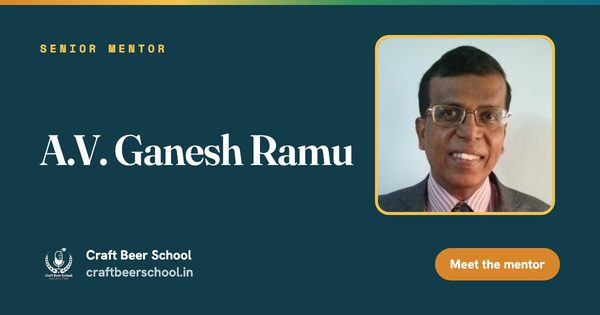
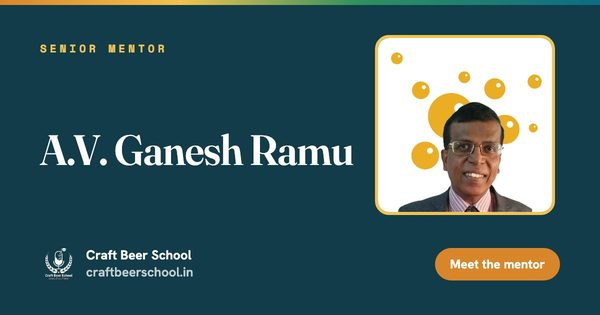
fix: Ganesh's card portrait in the same cut-out style as the other mentors

Changed region(s): [[0.63, 0.1143, 0.93, 0.6857]]

diff --git a/mr/mentor-anu-rao.html b/mr/mentor-anu-rao.html
@@ -84,7 +84,7 @@
 <div class="wrap">
 <div class="sec-head"><span class="eyebrow">तुमचे मेंटर</span><h2>बाकीच्या टीमला भेटा.</h2></div>
 <div class="grid-3">
-<article class="card mentor-card reveal"><a aria-hidden="true" href="../mentor-ganesh-ramu.html" tabindex="-1"><img alt="A.V. Ganesh Ramu" class="mentor-img" loading="lazy" src="../assets/ganesh-ramu.jpg"/></a><div class="card-body"><span class="cat">Senior Mentor · Master Brewer</span><h3><a href="../mentor-ganesh-ramu.html">A.V. Ganesh Ramu</a></h3><p>आमचे सर्वात ज्येष्ठ मेंटॉर. Institute of Brewing and Distilling चे Master Brewer, ज्यांना जर्मनी, यूके, न्यूझीलंड, सिंगापूर आणि भारतात ब्रूइंगचा 38 वर्षांचा अनुभव आहे.</p><div style="display:flex;flex-wrap:wrap;gap:.4rem 1.4rem"><a class="link-arrow" href="../mentor-ganesh-ramu.html">पूर्ण प्रोफाइल</a></div></div></article>
+<article class="card mentor-card reveal"><a aria-hidden="true" href="../mentor-ganesh-ramu.html" tabindex="-1"><img alt="A.V. Ganesh Ramu" class="mentor-img" loading="lazy" src="../assets/ganesh-ramu-portrait.jpg"/></a><div class="card-body"><span class="cat">Senior Mentor · Master Brewer</span><h3><a href="../mentor-ganesh-ramu.html">A.V. Ganesh Ramu</a></h3><p>आमचे सर्वात ज्येष्ठ मेंटॉर. Institute of Brewing and Distilling चे Master Brewer, ज्यांना जर्मनी, यूके, न्यूझीलंड, सिंगापूर आणि भारतात ब्रूइंगचा 38 वर्षांचा अनुभव आहे.</p><div style="display:flex;flex-wrap:wrap;gap:.4rem 1.4rem"><a class="link-arrow" href="../mentor-ganesh-ramu.html">पूर्ण प्रोफाइल</a></div></div></article>
 <article class="card mentor-card reveal"><a aria-hidden="true" href="mentor-ankur-napa.html" tabindex="-1"><img alt="Ankur Napa" class="mentor-img" loading="lazy" src="../assets/team3.jpg"/></a><div class="card-body"><span class="cat">Course Instructor · Master Brewer</span><h3><a href="mentor-ankur-napa.html">Ankur Napa</a></h3><p>United Breweries, SABMiller आणि AB InBev मध्ये R&amp;D मध्ये काम केलेले मास्टर ब्रुअर, ज्यांनी पुढे डेटा सायंटिस्ट म्हणून AB InBev च्या जागतिक बिझनेस युनिट्ससाठी AI आणि GenAI उभं केलं.</p><div style="display:flex;flex-wrap:wrap;gap:.4rem 1.4rem"><a class="link-arrow" href="mentor-ankur-napa.html">पूर्ण प्रोफाइल</a><a class="link-arrow" href="https://www.linkedin.com/in/ankur-napa/" rel="noopener" target="_blank">LinkedIn वर Ankur</a></div></div></article>
 <article class="card mentor-card reveal"><a aria-hidden="true" href="mentor-chatty-girija.html" tabindex="-1"><img alt="Chatty Girija" class="mentor-img" loading="lazy" src="../assets/team5.jpg"/></a><div class="card-body"><span class="cat">Beer Podcaster · Creative Strategist</span><h3><a href="mentor-chatty-girija.html">Chatty Girija</a></h3><p>जाहिरात क्षेत्रात 30+ वर्षं आणि क्राफ्ट बिअरची मनापासून आवड. प्रत्येक सेशनमध्ये बिअरच्या गोष्टी, ब्रँडिंग आणि व्यवसाय घेऊन येतात.</p><div style="display:flex;flex-wrap:wrap;gap:.4rem 1.4rem"><a class="link-arrow" href="mentor-chatty-girija.html">पूर्ण प्रोफाइल</a></div></div></article>
 <article class="card mentor-card reveal"><a aria-hidden="true" href="mentor-rahul-baliyan.html" tabindex="-1"><img alt="Rahul Baliyan" class="mentor-img" loading="lazy" src="../assets/rahul-baliyan-portrait.jpg"/></a><div class="card-body"><span class="cat">ब्रूइंग सायन्स इन्स्ट्रक्टर · दिल्ली आणि उत्तर भारत</span><h3><a href="mentor-rahul-baliyan.html">Rahul Baliyan</a></h3><p>Weihenstephan, TU Munich इथे प्रशिक्षण घेतलेले जर्मन-शैलीचे ब्रूमास्टर, फूड बायोटेक्नॉलॉजीमध्ये M.Tech. JW Marriott Chandigarh आणि भारतातील पहिली जर्मन ब्रुअरी Rockmann Beer Island साठी दहा वर्षं कन्सल्टंट ब्रूमास्टर, स्टार्ट-अप आणि एक्साइजपासून यील्ड आणि सोर्सिंगपर्यंत.</p><div style="display:flex;flex-wrap:wrap;gap:.4rem 1.4rem"><a class="link-arrow" href="mentor-rahul-baliyan.html">पूर्ण प्रोफाइल</a><a class="link-arrow" href="https://www.linkedin.com/in/rahul-baliyan-m-tech-40630a6b/" rel="noopener" target="_blank">LinkedIn वर Rahul</a></div></div></article>

diff --git a/mr/mentor-chatty-girija.html b/mr/mentor-chatty-girija.html
@@ -85,7 +85,7 @@
 <div class="wrap">
 <div class="sec-head"><span class="eyebrow">तुमचे मेंटर</span><h2>बाकीच्या टीमला भेटा.</h2></div>
 <div class="grid-3">
-<article class="card mentor-card reveal"><a aria-hidden="true" href="../mentor-ganesh-ramu.html" tabindex="-1"><img alt="A.V. Ganesh Ramu" class="mentor-img" loading="lazy" src="../assets/ganesh-ramu.jpg"/></a><div class="card-body"><span class="cat">Senior Mentor · Master Brewer</span><h3><a href="../mentor-ganesh-ramu.html">A.V. Ganesh Ramu</a></h3><p>आमचे सर्वात ज्येष्ठ मेंटॉर. Institute of Brewing and Distilling चे Master Brewer, ज्यांना जर्मनी, यूके, न्यूझीलंड, सिंगापूर आणि भारतात ब्रूइंगचा 38 वर्षांचा अनुभव आहे.</p><div style="display:flex;flex-wrap:wrap;gap:.4rem 1.4rem"><a class="link-arrow" href="../mentor-ganesh-ramu.html">पूर्ण प्रोफाइल</a></div></div></article>
+<article class="card mentor-card reveal"><a aria-hidden="true" href="../mentor-ganesh-ramu.html" tabindex="-1"><img alt="A.V. Ganesh Ramu" class="mentor-img" loading="lazy" src="../assets/ganesh-ramu-portrait.jpg"/></a><div class="card-body"><span class="cat">Senior Mentor · Master Brewer</span><h3><a href="../mentor-ganesh-ramu.html">A.V. Ganesh Ramu</a></h3><p>आमचे सर्वात ज्येष्ठ मेंटॉर. Institute of Brewing and Distilling चे Master Brewer, ज्यांना जर्मनी, यूके, न्यूझीलंड, सिंगापूर आणि भारतात ब्रूइंगचा 38 वर्षांचा अनुभव आहे.</p><div style="display:flex;flex-wrap:wrap;gap:.4rem 1.4rem"><a class="link-arrow" href="../mentor-ganesh-ramu.html">पूर्ण प्रोफाइल</a></div></div></article>
 <article class="card mentor-card reveal"><a aria-hidden="true" href="mentor-ankur-napa.html" tabindex="-1"><img alt="Ankur Napa" class="mentor-img" loading="lazy" src="../assets/team3.jpg"/></a><div class="card-body"><span class="cat">Course Instructor · Master Brewer</span><h3><a href="mentor-ankur-napa.html">Ankur Napa</a></h3><p>United Breweries, SABMiller आणि AB InBev मध्ये R&amp;D मध्ये काम केलेले मास्टर ब्रुअर, ज्यांनी पुढे डेटा सायंटिस्ट म्हणून AB InBev च्या जागतिक बिझनेस युनिट्ससाठी AI आणि GenAI उभं केलं.</p><div style="display:flex;flex-wrap:wrap;gap:.4rem 1.4rem"><a class="link-arrow" href="mentor-ankur-napa.html">पूर्ण प्रोफाइल</a><a class="link-arrow" href="https://www.linkedin.com/in/ankur-napa/" rel="noopener" target="_blank">LinkedIn वर Ankur</a></div></div></article>
 <article class="card mentor-card reveal"><a aria-hidden="true" href="mentor-anu-rao.html" tabindex="-1"><img alt="Anu Rao" class="mentor-img" loading="lazy" src="../assets/team4.jpg"/></a><div class="card-body"><span class="cat">स्ट्रॅटेजी आणि ऑपरेशन्स प्रमुख</span><h3><a href="mentor-anu-rao.html">Anu Rao</a></h3><p>सामाजिक जबाबदारी, शिक्षण आणि ऑपरेशन्समध्ये 15+ वर्षं, प्रत्येक बॅच धान्यापासून ग्लासपर्यंत सुरळीत चालेल याची काळजी घेतात.</p><div style="display:flex;flex-wrap:wrap;gap:.4rem 1.4rem"><a class="link-arrow" href="mentor-anu-rao.html">पूर्ण प्रोफाइल</a></div></div></article>
 <article class="card mentor-card reveal"><a aria-hidden="true" href="mentor-rahul-baliyan.html" tabindex="-1"><img alt="Rahul Baliyan" class="mentor-img" loading="lazy" src="../assets/rahul-baliyan-portrait.jpg"/></a><div class="card-body"><span class="cat">ब्रूइंग सायन्स इन्स्ट्रक्टर · दिल्ली आणि उत्तर भारत</span><h3><a href="mentor-rahul-baliyan.html">Rahul Baliyan</a></h3><p>Weihenstephan, TU Munich इथे प्रशिक्षण घेतलेले जर्मन-शैलीचे ब्रूमास्टर, फूड बायोटेक्नॉलॉजीमध्ये M.Tech. JW Marriott Chandigarh आणि भारतातील पहिली जर्मन ब्रुअरी Rockmann Beer Island साठी दहा वर्षं कन्सल्टंट ब्रूमास्टर, स्टार्ट-अप आणि एक्साइजपासून यील्ड आणि सोर्सिंगपर्यंत.</p><div style="display:flex;flex-wrap:wrap;gap:.4rem 1.4rem"><a class="link-arrow" href="mentor-rahul-baliyan.html">पूर्ण प्रोफाइल</a><a class="link-arrow" href="https://www.linkedin.com/in/rahul-baliyan-m-tech-40630a6b/" rel="noopener" target="_blank">LinkedIn वर Rahul</a></div></div></article>

diff --git a/kn/mentor-anu-rao.html b/kn/mentor-anu-rao.html
@@ -84,7 +84,7 @@
 <div class="wrap">
 <div class="sec-head"><span class="eyebrow">ನಿಮ್ಮ ಮೆಂಟರ್ಗಳು</span><h2>ತಂಡದ ಉಳಿದವರನ್ನು ಭೇಟಿಯಾಗಿ.</h2></div>
 <div class="grid-3">
-<article class="card mentor-card reveal"><a aria-hidden="true" href="../mentor-ganesh-ramu.html" tabindex="-1"><img alt="A.V. Ganesh Ramu" class="mentor-img" loading="lazy" src="../assets/ganesh-ramu.jpg"/></a><div class="card-body"><span class="cat">Senior Mentor · Master Brewer</span><h3><a href="../mentor-ganesh-ramu.html">A.V. Ganesh Ramu</a></h3><p>ನಮ್ಮ ಅತ್ಯಂತ ಹಿರಿಯ ಮೆಂಟರ್. Institute of Brewing and Distilling ನಿಂದ Master Brewer, ಜರ್ಮನಿ, ಯುಕೆ, ನ್ಯೂಜಿಲೆಂಡ್, ಸಿಂಗಾಪುರ ಮತ್ತು ಭಾರತದಲ್ಲಿ ಬ್ರೂಯಿಂಗ್ನಲ್ಲಿ 38 ವರ್ಷಗಳ ಅನುಭವ.</p><div style="display:flex;flex-wrap:wrap;gap:.4rem 1.4rem"><a class="link-arrow" href="../mentor-ganesh-ramu.html">ಪೂರ್ಣ ಪ್ರೊಫೈಲ್</a></div></div></article>
+<article class="card mentor-card reveal"><a aria-hidden="true" href="../mentor-ganesh-ramu.html" tabindex="-1"><img alt="A.V. Ganesh Ramu" class="mentor-img" loading="lazy" src="../assets/ganesh-ramu-portrait.jpg"/></a><div class="card-body"><span class="cat">Senior Mentor · Master Brewer</span><h3><a href="../mentor-ganesh-ramu.html">A.V. Ganesh Ramu</a></h3><p>ನಮ್ಮ ಅತ್ಯಂತ ಹಿರಿಯ ಮೆಂಟರ್. Institute of Brewing and Distilling ನಿಂದ Master Brewer, ಜರ್ಮನಿ, ಯುಕೆ, ನ್ಯೂಜಿಲೆಂಡ್, ಸಿಂಗಾಪುರ ಮತ್ತು ಭಾರತದಲ್ಲಿ ಬ್ರೂಯಿಂಗ್ನಲ್ಲಿ 38 ವರ್ಷಗಳ ಅನುಭವ.</p><div style="display:flex;flex-wrap:wrap;gap:.4rem 1.4rem"><a class="link-arrow" href="../mentor-ganesh-ramu.html">ಪೂರ್ಣ ಪ್ರೊಫೈಲ್</a></div></div></article>
 <article class="card mentor-card reveal"><a aria-hidden="true" href="mentor-ankur-napa.html" tabindex="-1"><img alt="Ankur Napa" class="mentor-img" loading="lazy" src="../assets/team3.jpg"/></a><div class="card-body"><span class="cat">ಕೋರ್ಸ್ ಬೋಧಕ · Master Brewer</span><h3><a href="mentor-ankur-napa.html">Ankur Napa</a></h3><p>United Breweries, SABMiller ಮತ್ತು AB InBev ನ R&amp;D ಯಲ್ಲಿ ಕೆಲಸ ಮಾಡಿದ Master Brewer, ನಂತರ ಡೇಟಾ ಸೈಂಟಿಸ್ಟ್ ಆಗಿ AB InBev ನ ಜಾಗತಿಕ ವ್ಯವಹಾರ ಘಟಕಗಳಿಗಾಗಿ AI ಮತ್ತು GenAI ಕಟ್ಟಿದವರು.</p><div style="display:flex;flex-wrap:wrap;gap:.4rem 1.4rem"><a class="link-arrow" href="mentor-ankur-napa.html">ಪೂರ್ಣ ಪ್ರೊಫೈಲ್</a><a class="link-arrow" href="https://www.linkedin.com/in/ankur-napa/" rel="noopener" target="_blank">LinkedIn ನಲ್ಲಿ Ankur</a></div></div></article>
 <article class="card mentor-card reveal"><a aria-hidden="true" href="mentor-chatty-girija.html" tabindex="-1"><img alt="Chatty Girija" class="mentor-img" loading="lazy" src="../assets/team5.jpg"/></a><div class="card-body"><span class="cat">ಬಿಯರ್ podcaster · ಸೃಜನಾತ್ಮಕ ತಂತ್ರಜ್ಞೆ</span><h3><a href="mentor-chatty-girija.html">Chatty Girija</a></h3><p>ಜಾಹೀರಾತು ಕ್ಷೇತ್ರದಲ್ಲಿ 30+ ವರ್ಷಗಳು ಮತ್ತು ಕ್ರಾಫ್ಟ್ ಬಿಯರ್ ಬಗ್ಗೆ ಆಳವಾದ ಒಲವು. ಪ್ರತಿ ಸೆಷನ್ಗೂ ಬಿಯರ್ನ ಕಥೆಗಳು, ಬ್ರ್ಯಾಂಡಿಂಗ್ ಮತ್ತು ವ್ಯವಹಾರವನ್ನು ತರುತ್ತಾರೆ.</p><div style="display:flex;flex-wrap:wrap;gap:.4rem 1.4rem"><a class="link-arrow" href="mentor-chatty-girija.html">ಪೂರ್ಣ ಪ್ರೊಫೈಲ್</a></div></div></article>
 <article class="card mentor-card reveal"><a aria-hidden="true" href="mentor-rahul-baliyan.html" tabindex="-1"><img alt="Rahul Baliyan" class="mentor-img" loading="lazy" src="../assets/rahul-baliyan-portrait.jpg"/></a><div class="card-body"><span class="cat">Brewing Science ಬೋಧಕರು · ದೆಹಲಿ &amp; ಉತ್ತರ ಭಾರತ</span><h3><a href="mentor-rahul-baliyan.html">Rahul Baliyan</a></h3><p>TU Munich ನ Weihenstephan ನಲ್ಲಿ ತರಬೇತಿ ಪಡೆದ ಜರ್ಮನ್ ಶೈಲಿಯ Brewmaster, ಆಹಾರ ಜೈವಿಕ ತಂತ್ರಜ್ಞಾನದಲ್ಲಿ M.Tech. ಪದವಿ. JW Marriott Chandigarh ಮತ್ತು ಭಾರತದ ಮೊದಲ ಜರ್ಮನ್ ಬ್ರೂವರಿ Rockmann Beer Island ಗೆ Consultant Brew Master ಆಗಿ ಒಂದು ದಶಕ, ಆರಂಭ ಮತ್ತು ಅಬಕಾರಿಯಿಂದ ಇಳುವರಿ ಮತ್ತು ಖರೀದಿಯವರೆಗೆ.</p><div style="display:flex;flex-wrap:wrap;gap:.4rem 1.4rem"><a class="link-arrow" href="mentor-rahul-baliyan.html">ಪೂರ್ಣ ಪ್ರೊಫೈಲ್</a><a class="link-arrow" href="https://www.linkedin.com/in/rahul-baliyan-m-tech-40630a6b/" rel="noopener" target="_blank">LinkedIn ನಲ್ಲಿ Rahul</a></div></div></article>

diff --git a/te/mentor-anu-rao.html b/te/mentor-anu-rao.html
@@ -84,7 +84,7 @@
 <div class="wrap">
 <div class="sec-head"><span class="eyebrow">మీ మెంటర్లు</span><h2>మిగతా టీమ్ను కలవండి.</h2></div>
 <div class="grid-3">
-<article class="card mentor-card reveal"><a aria-hidden="true" href="../mentor-ganesh-ramu.html" tabindex="-1"><img alt="A.V. Ganesh Ramu" class="mentor-img" loading="lazy" src="../assets/ganesh-ramu.jpg"/></a><div class="card-body"><span class="cat">Senior Mentor · Master Brewer</span><h3><a href="../mentor-ganesh-ramu.html">A.V. Ganesh Ramu</a></h3><p>మా అత్యంత సీనియర్ మెంటార్. Institute of Brewing and Distilling నుంచి Master Brewer, జర్మనీ, యూకే, న్యూజిలాండ్, సింగపూర్, భారతదేశాల్లో బ్రూయింగ్లో 38 ఏళ్ళ అనుభవం ఉంది.</p><div style="display:flex;flex-wrap:wrap;gap:.4rem 1.4rem"><a class="link-arrow" href="../mentor-ganesh-ramu.html">పూర్తి ప్రొఫైల్</a></div></div></article>
+<article class="card mentor-card reveal"><a aria-hidden="true" href="../mentor-ganesh-ramu.html" tabindex="-1"><img alt="A.V. Ganesh Ramu" class="mentor-img" loading="lazy" src="../assets/ganesh-ramu-portrait.jpg"/></a><div class="card-body"><span class="cat">Senior Mentor · Master Brewer</span><h3><a href="../mentor-ganesh-ramu.html">A.V. Ganesh Ramu</a></h3><p>మా అత్యంత సీనియర్ మెంటార్. Institute of Brewing and Distilling నుంచి Master Brewer, జర్మనీ, యూకే, న్యూజిలాండ్, సింగపూర్, భారతదేశాల్లో బ్రూయింగ్లో 38 ఏళ్ళ అనుభవం ఉంది.</p><div style="display:flex;flex-wrap:wrap;gap:.4rem 1.4rem"><a class="link-arrow" href="../mentor-ganesh-ramu.html">పూర్తి ప్రొఫైల్</a></div></div></article>
 <article class="card mentor-card reveal"><a aria-hidden="true" href="mentor-ankur-napa.html" tabindex="-1"><img alt="Ankur Napa" class="mentor-img" loading="lazy" src="../assets/team3.jpg"/></a><div class="card-body"><span class="cat">కోర్సు ఇన్స్ట్రక్టర్ · Master Brewer</span><h3><a href="mentor-ankur-napa.html">Ankur Napa</a></h3><p>United Breweries, SABMiller, AB InBev లలో R&amp;D విభాగంలో పనిచేసిన Master Brewer. ఆ తర్వాత డేటా సైంటిస్ట్గా AB InBev గ్లోబల్ బిజినెస్ యూనిట్ల కోసం AI, GenAI నిర్మించారు.</p><div style="display:flex;flex-wrap:wrap;gap:.4rem 1.4rem"><a class="link-arrow" href="mentor-ankur-napa.html">పూర్తి ప్రొఫైల్</a><a class="link-arrow" href="https://www.linkedin.com/in/ankur-napa/" rel="noopener" target="_blank">LinkedIn లో Ankur</a></div></div></article>
 <article class="card mentor-card reveal"><a aria-hidden="true" href="mentor-chatty-girija.html" tabindex="-1"><img alt="Chatty Girija" class="mentor-img" loading="lazy" src="../assets/team5.jpg"/></a><div class="card-body"><span class="cat">బీర్ పాడ్కాస్టర్ · క్రియేటివ్ స్ట్రాటజిస్ట్</span><h3><a href="mentor-chatty-girija.html">Chatty Girija</a></h3><p>అడ్వర్టైజింగ్లో 30+ ఏళ్ళు, క్రాఫ్ట్ బీర్ అంటే ఎంతో ఇష్టం. ప్రతి సెషన్కూ బీర్ కథలు, బ్రాండింగ్, వ్యాపారం తీసుకొస్తారు.</p><div style="display:flex;flex-wrap:wrap;gap:.4rem 1.4rem"><a class="link-arrow" href="mentor-chatty-girija.html">పూర్తి ప్రొఫైల్</a></div></div></article>
 <article class="card mentor-card reveal"><a aria-hidden="true" href="mentor-rahul-baliyan.html" tabindex="-1"><img alt="Rahul Baliyan" class="mentor-img" loading="lazy" src="../assets/rahul-baliyan-portrait.jpg"/></a><div class="card-body"><span class="cat">Brewing Science బోధకులు · ఢిల్లీ &amp; ఉత్తర భారతదేశం</span><h3><a href="mentor-rahul-baliyan.html">Rahul Baliyan</a></h3><p>Weihenstephan, TU Munichలో శిక్షణ పొందిన జర్మన్ స్టైల్ Brewmaster, Food Biotechnologyలో M.Tech. JW Marriott Chandigarh, భారతదేశపు మొదటి జర్మన్ బ్రూవరీ అయిన Rockmann Beer Island కోసం పదేళ్ళ పాటు Consultant Brew Master గా పనిచేశారు, స్టార్టప్, ఎక్సైజ్ నుంచి yield, సోర్సింగ్ వరకు.</p><div style="display:flex;flex-wrap:wrap;gap:.4rem 1.4rem"><a class="link-arrow" href="mentor-rahul-baliyan.html">పూర్తి ప్రొఫైల్</a><a class="link-arrow" href="https://www.linkedin.com/in/rahul-baliyan-m-tech-40630a6b/" rel="noopener" target="_blank">LinkedIn లో Rahul</a></div></div></article>

diff --git a/kn/mentor-chatty-girija.html b/kn/mentor-chatty-girija.html
@@ -85,7 +85,7 @@
 <div class="wrap">
 <div class="sec-head"><span class="eyebrow">ನಿಮ್ಮ ಮೆಂಟರ್ಗಳು</span><h2>ತಂಡದ ಉಳಿದವರನ್ನು ಭೇಟಿಯಾಗಿ.</h2></div>
 <div class="grid-3">
-<article class="card mentor-card reveal"><a aria-hidden="true" href="../mentor-ganesh-ramu.html" tabindex="-1"><img alt="A.V. Ganesh Ramu" class="mentor-img" loading="lazy" src="../assets/ganesh-ramu.jpg"/></a><div class="card-body"><span class="cat">Senior Mentor · Master Brewer</span><h3><a href="../mentor-ganesh-ramu.html">A.V. Ganesh Ramu</a></h3><p>ನಮ್ಮ ಅತ್ಯಂತ ಹಿರಿಯ ಮೆಂಟರ್. Institute of Brewing and Distilling ನಿಂದ Master Brewer, ಜರ್ಮನಿ, ಯುಕೆ, ನ್ಯೂಜಿಲೆಂಡ್, ಸಿಂಗಾಪುರ ಮತ್ತು ಭಾರತದಲ್ಲಿ ಬ್ರೂಯಿಂಗ್ನಲ್ಲಿ 38 ವರ್ಷಗಳ ಅನುಭವ.</p><div style="display:flex;flex-wrap:wrap;gap:.4rem 1.4rem"><a class="link-arrow" href="../mentor-ganesh-ramu.html">ಪೂರ್ಣ ಪ್ರೊಫೈಲ್</a></div></div></article>
+<article class="card mentor-card reveal"><a aria-hidden="true" href="../mentor-ganesh-ramu.html" tabindex="-1"><img alt="A.V. Ganesh Ramu" class="mentor-img" loading="lazy" src="../assets/ganesh-ramu-portrait.jpg"/></a><div class="card-body"><span class="cat">Senior Mentor · Master Brewer</span><h3><a href="../mentor-ganesh-ramu.html">A.V. Ganesh Ramu</a></h3><p>ನಮ್ಮ ಅತ್ಯಂತ ಹಿರಿಯ ಮೆಂಟರ್. Institute of Brewing and Distilling ನಿಂದ Master Brewer, ಜರ್ಮನಿ, ಯುಕೆ, ನ್ಯೂಜಿಲೆಂಡ್, ಸಿಂಗಾಪುರ ಮತ್ತು ಭಾರತದಲ್ಲಿ ಬ್ರೂಯಿಂಗ್ನಲ್ಲಿ 38 ವರ್ಷಗಳ ಅನುಭವ.</p><div style="display:flex;flex-wrap:wrap;gap:.4rem 1.4rem"><a class="link-arrow" href="../mentor-ganesh-ramu.html">ಪೂರ್ಣ ಪ್ರೊಫೈಲ್</a></div></div></article>
 <article class="card mentor-card reveal"><a aria-hidden="true" href="mentor-ankur-napa.html" tabindex="-1"><img alt="Ankur Napa" class="mentor-img" loading="lazy" src="../assets/team3.jpg"/></a><div class="card-body"><span class="cat">ಕೋರ್ಸ್ ಬೋಧಕ · Master Brewer</span><h3><a href="mentor-ankur-napa.html">Ankur Napa</a></h3><p>United Breweries, SABMiller ಮತ್ತು AB InBev ನ R&amp;D ಯಲ್ಲಿ ಕೆಲಸ ಮಾಡಿದ Master Brewer, ನಂತರ ಡೇಟಾ ಸೈಂಟಿಸ್ಟ್ ಆಗಿ AB InBev ನ ಜಾಗತಿಕ ವ್ಯವಹಾರ ಘಟಕಗಳಿಗಾಗಿ AI ಮತ್ತು GenAI ಕಟ್ಟಿದವರು.</p><div style="display:flex;flex-wrap:wrap;gap:.4rem 1.4rem"><a class="link-arrow" href="mentor-ankur-napa.html">ಪೂರ್ಣ ಪ್ರೊಫೈಲ್</a><a class="link-arrow" href="https://www.linkedin.com/in/ankur-napa/" rel="noopener" target="_blank">LinkedIn ನಲ್ಲಿ Ankur</a></div></div></article>
 <article class="card mentor-card reveal"><a aria-hidden="true" href="mentor-anu-rao.html" tabindex="-1"><img alt="Anu Rao" class="mentor-img" loading="lazy" src="../assets/team4.jpg"/></a><div class="card-body"><span class="cat">ಮುಖ್ಯಸ್ಥರು, ಸ್ಟ್ರಾಟಜಿ &amp; ಆಪರೇಷನ್ಸ್</span><h3><a href="mentor-anu-rao.html">Anu Rao</a></h3><p>ಸಾಮಾಜಿಕ ಜವಾಬ್ದಾರಿ, ಶಿಕ್ಷಣ ಮತ್ತು ಕಾರ್ಯಾಚರಣೆಯಲ್ಲಿ 15+ ವರ್ಷಗಳು, ಪ್ರತಿ ಬ್ಯಾಚ್ ಅನ್ನು ಧಾನ್ಯದಿಂದ ಗ್ಲಾಸ್ವರೆಗೆ ಸುಗಮವಾಗಿ ನಡೆಸುತ್ತಾರೆ.</p><div style="display:flex;flex-wrap:wrap;gap:.4rem 1.4rem"><a class="link-arrow" href="mentor-anu-rao.html">ಪೂರ್ಣ ಪ್ರೊಫೈಲ್</a></div></div></article>
 <article class="card mentor-card reveal"><a aria-hidden="true" href="mentor-rahul-baliyan.html" tabindex="-1"><img alt="Rahul Baliyan" class="mentor-img" loading="lazy" src="../assets/rahul-baliyan-portrait.jpg"/></a><div class="card-body"><span class="cat">Brewing Science ಬೋಧಕರು · ದೆಹಲಿ &amp; ಉತ್ತರ ಭಾರತ</span><h3><a href="mentor-rahul-baliyan.html">Rahul Baliyan</a></h3><p>TU Munich ನ Weihenstephan ನಲ್ಲಿ ತರಬೇತಿ ಪಡೆದ ಜರ್ಮನ್ ಶೈಲಿಯ Brewmaster, ಆಹಾರ ಜೈವಿಕ ತಂತ್ರಜ್ಞಾನದಲ್ಲಿ M.Tech. ಪದವಿ. JW Marriott Chandigarh ಮತ್ತು ಭಾರತದ ಮೊದಲ ಜರ್ಮನ್ ಬ್ರೂವರಿ Rockmann Beer Island ಗೆ Consultant Brew Master ಆಗಿ ಒಂದು ದಶಕ, ಆರಂಭ ಮತ್ತು ಅಬಕಾರಿಯಿಂದ ಇಳುವರಿ ಮತ್ತು ಖರೀದಿಯವರೆಗೆ.</p><div style="display:flex;flex-wrap:wrap;gap:.4rem 1.4rem"><a class="link-arrow" href="mentor-rahul-baliyan.html">ಪೂರ್ಣ ಪ್ರೊಫೈಲ್</a><a class="link-arrow" href="https://www.linkedin.com/in/rahul-baliyan-m-tech-40630a6b/" rel="noopener" target="_blank">LinkedIn ನಲ್ಲಿ Rahul</a></div></div></article>

diff --git a/te/mentor-chatty-girija.html b/te/mentor-chatty-girija.html
@@ -85,7 +85,7 @@
 <div class="wrap">
 <div class="sec-head"><span class="eyebrow">మీ మెంటర్లు</span><h2>మిగతా టీమ్ను కలవండి.</h2></div>
 <div class="grid-3">
-<article class="card mentor-card reveal"><a aria-hidden="true" href="../mentor-ganesh-ramu.html" tabindex="-1"><img alt="A.V. Ganesh Ramu" class="mentor-img" loading="lazy" src="../assets/ganesh-ramu.jpg"/></a><div class="card-body"><span class="cat">Senior Mentor · Master Brewer</span><h3><a href="../mentor-ganesh-ramu.html">A.V. Ganesh Ramu</a></h3><p>మా అత్యంత సీనియర్ మెంటార్. Institute of Brewing and Distilling నుంచి Master Brewer, జర్మనీ, యూకే, న్యూజిలాండ్, సింగపూర్, భారతదేశాల్లో బ్రూయింగ్లో 38 ఏళ్ళ అనుభవం ఉంది.</p><div style="display:flex;flex-wrap:wrap;gap:.4rem 1.4rem"><a class="link-arrow" href="../mentor-ganesh-ramu.html">పూర్తి ప్రొఫైల్</a></div></div></article>
+<article class="card mentor-card reveal"><a aria-hidden="true" href="../mentor-ganesh-ramu.html" tabindex="-1"><img alt="A.V. Ganesh Ramu" class="mentor-img" loading="lazy" src="../assets/ganesh-ramu-portrait.jpg"/></a><div class="card-body"><span class="cat">Senior Mentor · Master Brewer</span><h3><a href="../mentor-ganesh-ramu.html">A.V. Ganesh Ramu</a></h3><p>మా అత్యంత సీనియర్ మెంటార్. Institute of Brewing and Distilling నుంచి Master Brewer, జర్మనీ, యూకే, న్యూజిలాండ్, సింగపూర్, భారతదేశాల్లో బ్రూయింగ్లో 38 ఏళ్ళ అనుభవం ఉంది.</p><div style="display:flex;flex-wrap:wrap;gap:.4rem 1.4rem"><a class="link-arrow" href="../mentor-ganesh-ramu.html">పూర్తి ప్రొఫైల్</a></div></div></article>
 <article class="card mentor-card reveal"><a aria-hidden="true" href="mentor-ankur-napa.html" tabindex="-1"><img alt="Ankur Napa" class="mentor-img" loading="lazy" src="../assets/team3.jpg"/></a><div class="card-body"><span class="cat">కోర్సు ఇన్స్ట్రక్టర్ · Master Brewer</span><h3><a href="mentor-ankur-napa.html">Ankur Napa</a></h3><p>United Breweries, SABMiller, AB InBev లలో R&amp;D విభాగంలో పనిచేసిన Master Brewer. ఆ తర్వాత డేటా సైంటిస్ట్గా AB InBev గ్లోబల్ బిజినెస్ యూనిట్ల కోసం AI, GenAI నిర్మించారు.</p><div style="display:flex;flex-wrap:wrap;gap:.4rem 1.4rem"><a class="link-arrow" href="mentor-ankur-napa.html">పూర్తి ప్రొఫైల్</a><a class="link-arrow" href="https://www.linkedin.com/in/ankur-napa/" rel="noopener" target="_blank">LinkedIn లో Ankur</a></div></div></article>
 <article class="card mentor-card reveal"><a aria-hidden="true" href="mentor-anu-rao.html" tabindex="-1"><img alt="Anu Rao" class="mentor-img" loading="lazy" src="../assets/team4.jpg"/></a><div class="card-body"><span class="cat">హెడ్, స్ట్రాటజీ &amp; ఆపరేషన్స్</span><h3><a href="mentor-anu-rao.html">Anu Rao</a></h3><p>సామాజిక బాధ్యత, విద్య, ఆపరేషన్స్లో 15+ ఏళ్ళ అనుభవం. ధాన్యం నుంచి గ్లాస్ వరకు, ప్రతి బ్యాచ్ విద్యార్థులూ సాఫీగా సాగేలా చూసుకుంటారు.</p><div style="display:flex;flex-wrap:wrap;gap:.4rem 1.4rem"><a class="link-arrow" href="mentor-anu-rao.html">పూర్తి ప్రొఫైల్</a></div></div></article>
 <article class="card mentor-card reveal"><a aria-hidden="true" href="mentor-rahul-baliyan.html" tabindex="-1"><img alt="Rahul Baliyan" class="mentor-img" loading="lazy" src="../assets/rahul-baliyan-portrait.jpg"/></a><div class="card-body"><span class="cat">Brewing Science బోధకులు · ఢిల్లీ &amp; ఉత్తర భారతదేశం</span><h3><a href="mentor-rahul-baliyan.html">Rahul Baliyan</a></h3><p>Weihenstephan, TU Munichలో శిక్షణ పొందిన జర్మన్ స్టైల్ Brewmaster, Food Biotechnologyలో M.Tech. JW Marriott Chandigarh, భారతదేశపు మొదటి జర్మన్ బ్రూవరీ అయిన Rockmann Beer Island కోసం పదేళ్ళ పాటు Consultant Brew Master గా పనిచేశారు, స్టార్టప్, ఎక్సైజ్ నుంచి yield, సోర్సింగ్ వరకు.</p><div style="display:flex;flex-wrap:wrap;gap:.4rem 1.4rem"><a class="link-arrow" href="mentor-rahul-baliyan.html">పూర్తి ప్రొఫైల్</a><a class="link-arrow" href="https://www.linkedin.com/in/rahul-baliyan-m-tech-40630a6b/" rel="noopener" target="_blank">LinkedIn లో Rahul</a></div></div></article>

diff --git a/kn/mentor-ankur-napa.html b/kn/mentor-ankur-napa.html
@@ -87,7 +87,7 @@
 <div class="wrap">
 <div class="sec-head"><span class="eyebrow">ನಿಮ್ಮ ಮೆಂಟರ್ಗಳು</span><h2>ತಂಡದ ಉಳಿದವರನ್ನು ಭೇಟಿಯಾಗಿ.</h2></div>
 <div class="grid-3">
-<article class="card mentor-card reveal"><a aria-hidden="true" href="../mentor-ganesh-ramu.html" tabindex="-1"><img alt="A.V. Ganesh Ramu" class="mentor-img" loading="lazy" src="../assets/ganesh-ramu.jpg"/></a><div class="card-body"><span class="cat">Senior Mentor · Master Brewer</span><h3><a href="../mentor-ganesh-ramu.html">A.V. Ganesh Ramu</a></h3><p>ನಮ್ಮ ಅತ್ಯಂತ ಹಿರಿಯ ಮೆಂಟರ್. Institute of Brewing and Distilling ನಿಂದ Master Brewer, ಜರ್ಮನಿ, ಯುಕೆ, ನ್ಯೂಜಿಲೆಂಡ್, ಸಿಂಗಾಪುರ ಮತ್ತು ಭಾರತದಲ್ಲಿ ಬ್ರೂಯಿಂಗ್ನಲ್ಲಿ 38 ವರ್ಷಗಳ ಅನುಭವ.</p><div style="display:flex;flex-wrap:wrap;gap:.4rem 1.4rem"><a class="link-arrow" href="../mentor-ganesh-ramu.html">ಪೂರ್ಣ ಪ್ರೊಫೈಲ್</a></div></div></article>
+<article class="card mentor-card reveal"><a aria-hidden="true" href="../mentor-ganesh-ramu.html" tabindex="-1"><img alt="A.V. Ganesh Ramu" class="mentor-img" loading="lazy" src="../assets/ganesh-ramu-portrait.jpg"/></a><div class="card-body"><span class="cat">Senior Mentor · Master Brewer</span><h3><a href="../mentor-ganesh-ramu.html">A.V. Ganesh Ramu</a></h3><p>ನಮ್ಮ ಅತ್ಯಂತ ಹಿರಿಯ ಮೆಂಟರ್. Institute of Brewing and Distilling ನಿಂದ Master Brewer, ಜರ್ಮನಿ, ಯುಕೆ, ನ್ಯೂಜಿಲೆಂಡ್, ಸಿಂಗಾಪುರ ಮತ್ತು ಭಾರತದಲ್ಲಿ ಬ್ರೂಯಿಂಗ್ನಲ್ಲಿ 38 ವರ್ಷಗಳ ಅನುಭವ.</p><div style="display:flex;flex-wrap:wrap;gap:.4rem 1.4rem"><a class="link-arrow" href="../mentor-ganesh-ramu.html">ಪೂರ್ಣ ಪ್ರೊಫೈಲ್</a></div></div></article>
 <article class="card mentor-card reveal"><a aria-hidden="true" href="mentor-chatty-girija.html" tabindex="-1"><img alt="Chatty Girija" class="mentor-img" loading="lazy" src="../assets/team5.jpg"/></a><div class="card-body"><span class="cat">ಬಿಯರ್ podcaster · ಸೃಜನಾತ್ಮಕ ತಂತ್ರಜ್ಞೆ</span><h3><a href="mentor-chatty-girija.html">Chatty Girija</a></h3><p>ಜಾಹೀರಾತು ಕ್ಷೇತ್ರದಲ್ಲಿ 30+ ವರ್ಷಗಳು ಮತ್ತು ಕ್ರಾಫ್ಟ್ ಬಿಯರ್ ಬಗ್ಗೆ ಆಳವಾದ ಒಲವು. ಪ್ರತಿ ಸೆಷನ್ಗೂ ಬಿಯರ್ನ ಕಥೆಗಳು, ಬ್ರ್ಯಾಂಡಿಂಗ್ ಮತ್ತು ವ್ಯವಹಾರವನ್ನು ತರುತ್ತಾರೆ.</p><div style="display:flex;flex-wrap:wrap;gap:.4rem 1.4rem"><a class="link-arrow" href="mentor-chatty-girija.html">ಪೂರ್ಣ ಪ್ರೊಫೈಲ್</a></div></div></article>
 <article class="card mentor-card reveal"><a aria-hidden="true" href="mentor-anu-rao.html" tabindex="-1"><img alt="Anu Rao" class="mentor-img" loading="lazy" src="../assets/team4.jpg"/></a><div class="card-body"><span class="cat">ಮುಖ್ಯಸ್ಥರು, ಸ್ಟ್ರಾಟಜಿ &amp; ಆಪರೇಷನ್ಸ್</span><h3><a href="mentor-anu-rao.html">Anu Rao</a></h3><p>ಸಾಮಾಜಿಕ ಜವಾಬ್ದಾರಿ, ಶಿಕ್ಷಣ ಮತ್ತು ಕಾರ್ಯಾಚರಣೆಯಲ್ಲಿ 15+ ವರ್ಷಗಳು, ಪ್ರತಿ ಬ್ಯಾಚ್ ಅನ್ನು ಧಾನ್ಯದಿಂದ ಗ್ಲಾಸ್ವರೆಗೆ ಸುಗಮವಾಗಿ ನಡೆಸುತ್ತಾರೆ.</p><div style="display:flex;flex-wrap:wrap;gap:.4rem 1.4rem"><a class="link-arrow" href="mentor-anu-rao.html">ಪೂರ್ಣ ಪ್ರೊಫೈಲ್</a></div></div></article>
 <article class="card mentor-card reveal"><a aria-hidden="true" href="mentor-rahul-baliyan.html" tabindex="-1"><img alt="Rahul Baliyan" class="mentor-img" loading="lazy" src="../assets/rahul-baliyan-portrait.jpg"/></a><div class="card-body"><span class="cat">Brewing Science ಬೋಧಕರು · ದೆಹಲಿ &amp; ಉತ್ತರ ಭಾರತ</span><h3><a href="mentor-rahul-baliyan.html">Rahul Baliyan</a></h3><p>TU Munich ನ Weihenstephan ನಲ್ಲಿ ತರಬೇತಿ ಪಡೆದ ಜರ್ಮನ್ ಶೈಲಿಯ Brewmaster, ಆಹಾರ ಜೈವಿಕ ತಂತ್ರಜ್ಞಾನದಲ್ಲಿ M.Tech. ಪದವಿ. JW Marriott Chandigarh ಮತ್ತು ಭಾರತದ ಮೊದಲ ಜರ್ಮನ್ ಬ್ರೂವರಿ Rockmann Beer Island ಗೆ Consultant Brew Master ಆಗಿ ಒಂದು ದಶಕ, ಆರಂಭ ಮತ್ತು ಅಬಕಾರಿಯಿಂದ ಇಳುವರಿ ಮತ್ತು ಖರೀದಿಯವರೆಗೆ.</p><div style="display:flex;flex-wrap:wrap;gap:.4rem 1.4rem"><a class="link-arrow" href="mentor-rahul-baliyan.html">ಪೂರ್ಣ ಪ್ರೊಫೈಲ್</a><a class="link-arrow" href="https://www.linkedin.com/in/rahul-baliyan-m-tech-40630a6b/" rel="noopener" target="_blank">LinkedIn ನಲ್ಲಿ Rahul</a></div></div></article>

diff --git a/mr/mentor-ankur-napa.html b/mr/mentor-ankur-napa.html
@@ -87,7 +87,7 @@
 <div class="wrap">
 <div class="sec-head"><span class="eyebrow">तुमचे मेंटर</span><h2>बाकीच्या टीमला भेटा.</h2></div>
 <div class="grid-3">
-<article class="card mentor-card reveal"><a aria-hidden="true" href="../mentor-ganesh-ramu.html" tabindex="-1"><img alt="A.V. Ganesh Ramu" class="mentor-img" loading="lazy" src="../assets/ganesh-ramu.jpg"/></a><div class="card-body"><span class="cat">Senior Mentor · Master Brewer</span><h3><a href="../mentor-ganesh-ramu.html">A.V. Ganesh Ramu</a></h3><p>आमचे सर्वात ज्येष्ठ मेंटॉर. Institute of Brewing and Distilling चे Master Brewer, ज्यांना जर्मनी, यूके, न्यूझीलंड, सिंगापूर आणि भारतात ब्रूइंगचा 38 वर्षांचा अनुभव आहे.</p><div style="display:flex;flex-wrap:wrap;gap:.4rem 1.4rem"><a class="link-arrow" href="../mentor-ganesh-ramu.html">पूर्ण प्रोफाइल</a></div></div></article>
+<article class="card mentor-card reveal"><a aria-hidden="true" href="../mentor-ganesh-ramu.html" tabindex="-1"><img alt="A.V. Ganesh Ramu" class="mentor-img" loading="lazy" src="../assets/ganesh-ramu-portrait.jpg"/></a><div class="card-body"><span class="cat">Senior Mentor · Master Brewer</span><h3><a href="../mentor-ganesh-ramu.html">A.V. Ganesh Ramu</a></h3><p>आमचे सर्वात ज्येष्ठ मेंटॉर. Institute of Brewing and Distilling चे Master Brewer, ज्यांना जर्मनी, यूके, न्यूझीलंड, सिंगापूर आणि भारतात ब्रूइंगचा 38 वर्षांचा अनुभव आहे.</p><div style="display:flex;flex-wrap:wrap;gap:.4rem 1.4rem"><a class="link-arrow" href="../mentor-ganesh-ramu.html">पूर्ण प्रोफाइल</a></div></div></article>
 <article class="card mentor-card reveal"><a aria-hidden="true" href="mentor-chatty-girija.html" tabindex="-1"><img alt="Chatty Girija" class="mentor-img" loading="lazy" src="../assets/team5.jpg"/></a><div class="card-body"><span class="cat">Beer Podcaster · Creative Strategist</span><h3><a href="mentor-chatty-girija.html">Chatty Girija</a></h3><p>जाहिरात क्षेत्रात 30+ वर्षं आणि क्राफ्ट बिअरची मनापासून आवड. प्रत्येक सेशनमध्ये बिअरच्या गोष्टी, ब्रँडिंग आणि व्यवसाय घेऊन येतात.</p><div style="display:flex;flex-wrap:wrap;gap:.4rem 1.4rem"><a class="link-arrow" href="mentor-chatty-girija.html">पूर्ण प्रोफाइल</a></div></div></article>
 <article class="card mentor-card reveal"><a aria-hidden="true" href="mentor-anu-rao.html" tabindex="-1"><img alt="Anu Rao" class="mentor-img" loading="lazy" src="../assets/team4.jpg"/></a><div class="card-body"><span class="cat">स्ट्रॅटेजी आणि ऑपरेशन्स प्रमुख</span><h3><a href="mentor-anu-rao.html">Anu Rao</a></h3><p>सामाजिक जबाबदारी, शिक्षण आणि ऑपरेशन्समध्ये 15+ वर्षं, प्रत्येक बॅच धान्यापासून ग्लासपर्यंत सुरळीत चालेल याची काळजी घेतात.</p><div style="display:flex;flex-wrap:wrap;gap:.4rem 1.4rem"><a class="link-arrow" href="mentor-anu-rao.html">पूर्ण प्रोफाइल</a></div></div></article>
 <article class="card mentor-card reveal"><a aria-hidden="true" href="mentor-rahul-baliyan.html" tabindex="-1"><img alt="Rahul Baliyan" class="mentor-img" loading="lazy" src="../assets/rahul-baliyan-portrait.jpg"/></a><div class="card-body"><span class="cat">ब्रूइंग सायन्स इन्स्ट्रक्टर · दिल्ली आणि उत्तर भारत</span><h3><a href="mentor-rahul-baliyan.html">Rahul Baliyan</a></h3><p>Weihenstephan, TU Munich इथे प्रशिक्षण घेतलेले जर्मन-शैलीचे ब्रूमास्टर, फूड बायोटेक्नॉलॉजीमध्ये M.Tech. JW Marriott Chandigarh आणि भारतातील पहिली जर्मन ब्रुअरी Rockmann Beer Island साठी दहा वर्षं कन्सल्टंट ब्रूमास्टर, स्टार्ट-अप आणि एक्साइजपासून यील्ड आणि सोर्सिंगपर्यंत.</p><div style="display:flex;flex-wrap:wrap;gap:.4rem 1.4rem"><a class="link-arrow" href="mentor-rahul-baliyan.html">पूर्ण प्रोफाइल</a><a class="link-arrow" href="https://www.linkedin.com/in/rahul-baliyan-m-tech-40630a6b/" rel="noopener" target="_blank">LinkedIn वर Rahul</a></div></div></article>

diff --git a/te/mentor-ankur-napa.html b/te/mentor-ankur-napa.html
@@ -87,7 +87,7 @@
 <div class="wrap">
 <div class="sec-head"><span class="eyebrow">మీ మెంటర్లు</span><h2>మిగతా టీమ్ను కలవండి.</h2></div>
 <div class="grid-3">
-<article class="card mentor-card reveal"><a aria-hidden="true" href="../mentor-ganesh-ramu.html" tabindex="-1"><img alt="A.V. Ganesh Ramu" class="mentor-img" loading="lazy" src="../assets/ganesh-ramu.jpg"/></a><div class="card-body"><span class="cat">Senior Mentor · Master Brewer</span><h3><a href="../mentor-ganesh-ramu.html">A.V. Ganesh Ramu</a></h3><p>మా అత్యంత సీనియర్ మెంటార్. Institute of Brewing and Distilling నుంచి Master Brewer, జర్మనీ, యూకే, న్యూజిలాండ్, సింగపూర్, భారతదేశాల్లో బ్రూయింగ్లో 38 ఏళ్ళ అనుభవం ఉంది.</p><div style="display:flex;flex-wrap:wrap;gap:.4rem 1.4rem"><a class="link-arrow" href="../mentor-ganesh-ramu.html">పూర్తి ప్రొఫైల్</a></div></div></article>
+<article class="card mentor-card reveal"><a aria-hidden="true" href="../mentor-ganesh-ramu.html" tabindex="-1"><img alt="A.V. Ganesh Ramu" class="mentor-img" loading="lazy" src="../assets/ganesh-ramu-portrait.jpg"/></a><div class="card-body"><span class="cat">Senior Mentor · Master Brewer</span><h3><a href="../mentor-ganesh-ramu.html">A.V. Ganesh Ramu</a></h3><p>మా అత్యంత సీనియర్ మెంటార్. Institute of Brewing and Distilling నుంచి Master Brewer, జర్మనీ, యూకే, న్యూజిలాండ్, సింగపూర్, భారతదేశాల్లో బ్రూయింగ్లో 38 ఏళ్ళ అనుభవం ఉంది.</p><div style="display:flex;flex-wrap:wrap;gap:.4rem 1.4rem"><a class="link-arrow" href="../mentor-ganesh-ramu.html">పూర్తి ప్రొఫైల్</a></div></div></article>
 <article class="card mentor-card reveal"><a aria-hidden="true" href="mentor-chatty-girija.html" tabindex="-1"><img alt="Chatty Girija" class="mentor-img" loading="lazy" src="../assets/team5.jpg"/></a><div class="card-body"><span class="cat">బీర్ పాడ్కాస్టర్ · క్రియేటివ్ స్ట్రాటజిస్ట్</span><h3><a href="mentor-chatty-girija.html">Chatty Girija</a></h3><p>అడ్వర్టైజింగ్లో 30+ ఏళ్ళు, క్రాఫ్ట్ బీర్ అంటే ఎంతో ఇష్టం. ప్రతి సెషన్కూ బీర్ కథలు, బ్రాండింగ్, వ్యాపారం తీసుకొస్తారు.</p><div style="display:flex;flex-wrap:wrap;gap:.4rem 1.4rem"><a class="link-arrow" href="mentor-chatty-girija.html">పూర్తి ప్రొఫైల్</a></div></div></article>
 <article class="card mentor-card reveal"><a aria-hidden="true" href="mentor-anu-rao.html" tabindex="-1"><img alt="Anu Rao" class="mentor-img" loading="lazy" src="../assets/team4.jpg"/></a><div class="card-body"><span class="cat">హెడ్, స్ట్రాటజీ &amp; ఆపరేషన్స్</span><h3><a href="mentor-anu-rao.html">Anu Rao</a></h3><p>సామాజిక బాధ్యత, విద్య, ఆపరేషన్స్లో 15+ ఏళ్ళ అనుభవం. ధాన్యం నుంచి గ్లాస్ వరకు, ప్రతి బ్యాచ్ విద్యార్థులూ సాఫీగా సాగేలా చూసుకుంటారు.</p><div style="display:flex;flex-wrap:wrap;gap:.4rem 1.4rem"><a class="link-arrow" href="mentor-anu-rao.html">పూర్తి ప్రొఫైల్</a></div></div></article>
 <article class="card mentor-card reveal"><a aria-hidden="true" href="mentor-rahul-baliyan.html" tabindex="-1"><img alt="Rahul Baliyan" class="mentor-img" loading="lazy" src="../assets/rahul-baliyan-portrait.jpg"/></a><div class="card-body"><span class="cat">Brewing Science బోధకులు · ఢిల్లీ &amp; ఉత్తర భారతదేశం</span><h3><a href="mentor-rahul-baliyan.html">Rahul Baliyan</a></h3><p>Weihenstephan, TU Munichలో శిక్షణ పొందిన జర్మన్ స్టైల్ Brewmaster, Food Biotechnologyలో M.Tech. JW Marriott Chandigarh, భారతదేశపు మొదటి జర్మన్ బ్రూవరీ అయిన Rockmann Beer Island కోసం పదేళ్ళ పాటు Consultant Brew Master గా పనిచేశారు, స్టార్టప్, ఎక్సైజ్ నుంచి yield, సోర్సింగ్ వరకు.</p><div style="display:flex;flex-wrap:wrap;gap:.4rem 1.4rem"><a class="link-arrow" href="mentor-rahul-baliyan.html">పూర్తి ప్రొఫైల్</a><a class="link-arrow" href="https://www.linkedin.com/in/rahul-baliyan-m-tech-40630a6b/" rel="noopener" target="_blank">LinkedIn లో Rahul</a></div></div></article>

diff --git a/hi/mentor-anu-rao.html b/hi/mentor-anu-rao.html
@@ -84,7 +84,7 @@
 <div class="wrap">
 <div class="sec-head"><span class="eyebrow">आपके मेंटर</span><h2>बाकी टीम से मिलिए।</h2></div>
 <div class="grid-3">
-<article class="card mentor-card reveal"><a aria-hidden="true" href="../mentor-ganesh-ramu.html" tabindex="-1"><img alt="A.V. Ganesh Ramu" class="mentor-img" loading="lazy" src="../assets/ganesh-ramu.jpg"/></a><div class="card-body"><span class="cat">Senior Mentor · Master Brewer</span><h3><a href="../mentor-ganesh-ramu.html">A.V. Ganesh Ramu</a></h3><p>हमारे सबसे वरिष्ठ मेंटर। Institute of Brewing and Distilling से Master Brewer, जिन्हें जर्मनी, यूके, न्यूज़ीलैंड, सिंगापुर और भारत में ब्रूइंग का 38 साल का अनुभव है।</p><div style="display:flex;flex-wrap:wrap;gap:.4rem 1.4rem"><a class="link-arrow" href="../mentor-ganesh-ramu.html">पूरी प्रोफ़ाइल</a></div></div></article>
+<article class="card mentor-card reveal"><a aria-hidden="true" href="../mentor-ganesh-ramu.html" tabindex="-1"><img alt="A.V. Ganesh Ramu" class="mentor-img" loading="lazy" src="../assets/ganesh-ramu-portrait.jpg"/></a><div class="card-body"><span class="cat">Senior Mentor · Master Brewer</span><h3><a href="../mentor-ganesh-ramu.html">A.V. Ganesh Ramu</a></h3><p>हमारे सबसे वरिष्ठ मेंटर। Institute of Brewing and Distilling से Master Brewer, जिन्हें जर्मनी, यूके, न्यूज़ीलैंड, सिंगापुर और भारत में ब्रूइंग का 38 साल का अनुभव है।</p><div style="display:flex;flex-wrap:wrap;gap:.4rem 1.4rem"><a class="link-arrow" href="../mentor-ganesh-ramu.html">पूरी प्रोफ़ाइल</a></div></div></article>
 <article class="card mentor-card reveal"><a aria-hidden="true" href="mentor-ankur-napa.html" tabindex="-1"><img alt="Ankur Napa" class="mentor-img" loading="lazy" src="../assets/team3.jpg"/></a><div class="card-body"><span class="cat">Course Instructor · Master Brewer</span><h3><a href="mentor-ankur-napa.html">Ankur Napa</a></h3><p>United Breweries, SABMiller और AB InBev के R&amp;D से आए एक Master Brewer, जिन्होंने आगे चलकर डेटा साइंटिस्ट के रूप में AB InBev की ग्लोबल बिज़नेस यूनिट्स के लिए AI और GenAI बनाया।</p><div style="display:flex;flex-wrap:wrap;gap:.4rem 1.4rem"><a class="link-arrow" href="mentor-ankur-napa.html">पूरी प्रोफ़ाइल</a><a class="link-arrow" href="https://www.linkedin.com/in/ankur-napa/" rel="noopener" target="_blank">LinkedIn पर Ankur</a></div></div></article>
 <article class="card mentor-card reveal"><a aria-hidden="true" href="mentor-chatty-girija.html" tabindex="-1"><img alt="Chatty Girija" class="mentor-img" loading="lazy" src="../assets/team5.jpg"/></a><div class="card-body"><span class="cat">Beer Podcaster · Creative Strategist</span><h3><a href="mentor-chatty-girija.html">Chatty Girija</a></h3><p>विज्ञापन में 30+ साल और क्राफ़्ट बीयर के लिए गहरा लगाव। हर सेशन में बीयर की कहानियाँ, ब्रांडिंग और बिज़नेस लेकर आती हैं।</p><div style="display:flex;flex-wrap:wrap;gap:.4rem 1.4rem"><a class="link-arrow" href="mentor-chatty-girija.html">पूरी प्रोफ़ाइल</a></div></div></article>
 <article class="card mentor-card reveal"><a aria-hidden="true" href="mentor-rahul-baliyan.html" tabindex="-1"><img alt="Rahul Baliyan" class="mentor-img" loading="lazy" src="../assets/rahul-baliyan-portrait.jpg"/></a><div class="card-body"><span class="cat">ब्रूइंग साइंस इंस्ट्रक्टर · दिल्ली और उत्तर भारत</span><h3><a href="mentor-rahul-baliyan.html">Rahul Baliyan</a></h3><p>Weihenstephan, TU Munich से प्रशिक्षित जर्मन-स्टाइल Brewmaster, Food Biotechnology में M.Tech.। JW Marriott Chandigarh और भारत की पहली जर्मन ब्रुअरी Rockmann Beer Island के लिए दस साल तक Consultant Brew Master रहे, शुरुआत और एक्साइज़ से लेकर yield और सोर्सिंग तक।</p><div style="display:flex;flex-wrap:wrap;gap:.4rem 1.4rem"><a class="link-arrow" href="mentor-rahul-baliyan.html">पूरी प्रोफ़ाइल</a><a class="link-arrow" href="https://www.linkedin.com/in/rahul-baliyan-m-tech-40630a6b/" rel="noopener" target="_blank">LinkedIn पर Rahul</a></div></div></article>

diff --git a/hi/mentor-chatty-girija.html b/hi/mentor-chatty-girija.html
@@ -85,7 +85,7 @@
 <div class="wrap">
 <div class="sec-head"><span class="eyebrow">आपके मेंटर</span><h2>बाकी टीम से मिलिए।</h2></div>
 <div class="grid-3">
-<article class="card mentor-card reveal"><a aria-hidden="true" href="../mentor-ganesh-ramu.html" tabindex="-1"><img alt="A.V. Ganesh Ramu" class="mentor-img" loading="lazy" src="../assets/ganesh-ramu.jpg"/></a><div class="card-body"><span class="cat">Senior Mentor · Master Brewer</span><h3><a href="../mentor-ganesh-ramu.html">A.V. Ganesh Ramu</a></h3><p>हमारे सबसे वरिष्ठ मेंटर। Institute of Brewing and Distilling से Master Brewer, जिन्हें जर्मनी, यूके, न्यूज़ीलैंड, सिंगापुर और भारत में ब्रूइंग का 38 साल का अनुभव है।</p><div style="display:flex;flex-wrap:wrap;gap:.4rem 1.4rem"><a class="link-arrow" href="../mentor-ganesh-ramu.html">पूरी प्रोफ़ाइल</a></div></div></article>
+<article class="card mentor-card reveal"><a aria-hidden="true" href="../mentor-ganesh-ramu.html" tabindex="-1"><img alt="A.V. Ganesh Ramu" class="mentor-img" loading="lazy" src="../assets/ganesh-ramu-portrait.jpg"/></a><div class="card-body"><span class="cat">Senior Mentor · Master Brewer</span><h3><a href="../mentor-ganesh-ramu.html">A.V. Ganesh Ramu</a></h3><p>हमारे सबसे वरिष्ठ मेंटर। Institute of Brewing and Distilling से Master Brewer, जिन्हें जर्मनी, यूके, न्यूज़ीलैंड, सिंगापुर और भारत में ब्रूइंग का 38 साल का अनुभव है।</p><div style="display:flex;flex-wrap:wrap;gap:.4rem 1.4rem"><a class="link-arrow" href="../mentor-ganesh-ramu.html">पूरी प्रोफ़ाइल</a></div></div></article>
 <article class="card mentor-card reveal"><a aria-hidden="true" href="mentor-ankur-napa.html" tabindex="-1"><img alt="Ankur Napa" class="mentor-img" loading="lazy" src="../assets/team3.jpg"/></a><div class="card-body"><span class="cat">Course Instructor · Master Brewer</span><h3><a href="mentor-ankur-napa.html">Ankur Napa</a></h3><p>United Breweries, SABMiller और AB InBev के R&amp;D से आए एक Master Brewer, जिन्होंने आगे चलकर डेटा साइंटिस्ट के रूप में AB InBev की ग्लोबल बिज़नेस यूनिट्स के लिए AI और GenAI बनाया।</p><div style="display:flex;flex-wrap:wrap;gap:.4rem 1.4rem"><a class="link-arrow" href="mentor-ankur-napa.html">पूरी प्रोफ़ाइल</a><a class="link-arrow" href="https://www.linkedin.com/in/ankur-napa/" rel="noopener" target="_blank">LinkedIn पर Ankur</a></div></div></article>
 <article class="card mentor-card reveal"><a aria-hidden="true" href="mentor-anu-rao.html" tabindex="-1"><img alt="Anu Rao" class="mentor-img" loading="lazy" src="../assets/team4.jpg"/></a><div class="card-body"><span class="cat">स्ट्रैटेजी और ऑपरेशंस प्रमुख</span><h3><a href="mentor-anu-rao.html">Anu Rao</a></h3><p>सामाजिक ज़िम्मेदारी, शिक्षा और ऑपरेशंस में 15+ साल, हर बैच को अनाज से गिलास तक सुचारु रूप से चलाती हैं।</p><div style="display:flex;flex-wrap:wrap;gap:.4rem 1.4rem"><a class="link-arrow" href="mentor-anu-rao.html">पूरी प्रोफ़ाइल</a></div></div></article>
 <article class="card mentor-card reveal"><a aria-hidden="true" href="mentor-rahul-baliyan.html" tabindex="-1"><img alt="Rahul Baliyan" class="mentor-img" loading="lazy" src="../assets/rahul-baliyan-portrait.jpg"/></a><div class="card-body"><span class="cat">ब्रूइंग साइंस इंस्ट्रक्टर · दिल्ली और उत्तर भारत</span><h3><a href="mentor-rahul-baliyan.html">Rahul Baliyan</a></h3><p>Weihenstephan, TU Munich से प्रशिक्षित जर्मन-स्टाइल Brewmaster, Food Biotechnology में M.Tech.। JW Marriott Chandigarh और भारत की पहली जर्मन ब्रुअरी Rockmann Beer Island के लिए दस साल तक Consultant Brew Master रहे, शुरुआत और एक्साइज़ से लेकर yield और सोर्सिंग तक।</p><div style="display:flex;flex-wrap:wrap;gap:.4rem 1.4rem"><a class="link-arrow" href="mentor-rahul-baliyan.html">पूरी प्रोफ़ाइल</a><a class="link-arrow" href="https://www.linkedin.com/in/rahul-baliyan-m-tech-40630a6b/" rel="noopener" target="_blank">LinkedIn पर Rahul</a></div></div></article>

diff --git a/kn/about.html b/kn/about.html
@@ -99,7 +99,7 @@
 <div class="wrap">
 <div class="sec-head center"><span class="eyebrow">ನಿಮ್ಮ ಮೆಂಟರ್ಗಳು</span><h2>ಬ್ರೂ ಮಾಡುವವರೇ ಕಲಿಸುತ್ತಾರೆ.</h2></div>
 <div class="grid-2">
-<article class="card mentor-card reveal"><a aria-hidden="true" href="../mentor-ganesh-ramu.html" tabindex="-1"><img alt="A.V. Ganesh Ramu" class="mentor-img" loading="lazy" src="../assets/ganesh-ramu.jpg"/></a><div class="card-body"><span class="cat">Senior Mentor · Master Brewer</span><h3><a href="../mentor-ganesh-ramu.html">A.V. Ganesh Ramu</a></h3><p>ನಮ್ಮ ಅತ್ಯಂತ ಹಿರಿಯ ಮೆಂಟರ್. Institute of Brewing and Distilling ನಿಂದ Master Brewer, ಜರ್ಮನಿ, ಯುಕೆ, ನ್ಯೂಜಿಲೆಂಡ್, ಸಿಂಗಾಪುರ ಮತ್ತು ಭಾರತದಲ್ಲಿ ಬ್ರೂಯಿಂಗ್ನಲ್ಲಿ 38 ವರ್ಷಗಳ ಅನುಭವ.</p><div style="display:flex;flex-wrap:wrap;gap:.4rem 1.4rem"><a class="link-arrow" href="../mentor-ganesh-ramu.html">ಪೂರ್ಣ ಪ್ರೊಫೈಲ್</a></div></div></article>
+<article class="card mentor-card reveal"><a aria-hidden="true" href="../mentor-ganesh-ramu.html" tabindex="-1"><img alt="A.V. Ganesh Ramu" class="mentor-img" loading="lazy" src="../assets/ganesh-ramu-portrait.jpg"/></a><div class="card-body"><span class="cat">Senior Mentor · Master Brewer</span><h3><a href="../mentor-ganesh-ramu.html">A.V. Ganesh Ramu</a></h3><p>ನಮ್ಮ ಅತ್ಯಂತ ಹಿರಿಯ ಮೆಂಟರ್. Institute of Brewing and Distilling ನಿಂದ Master Brewer, ಜರ್ಮನಿ, ಯುಕೆ, ನ್ಯೂಜಿಲೆಂಡ್, ಸಿಂಗಾಪುರ ಮತ್ತು ಭಾರತದಲ್ಲಿ ಬ್ರೂಯಿಂಗ್ನಲ್ಲಿ 38 ವರ್ಷಗಳ ಅನುಭವ.</p><div style="display:flex;flex-wrap:wrap;gap:.4rem 1.4rem"><a class="link-arrow" href="../mentor-ganesh-ramu.html">ಪೂರ್ಣ ಪ್ರೊಫೈಲ್</a></div></div></article>
 <article class="card mentor-card reveal"><a aria-hidden="true" href="mentor-ankur-napa.html" tabindex="-1"><img alt="Ankur Napa" class="mentor-img" loading="lazy" src="../assets/team3.jpg"/></a><div class="card-body"><span class="cat">ಕೋರ್ಸ್ ಬೋಧಕ · Master Brewer</span><h3><a href="mentor-ankur-napa.html">Ankur Napa</a></h3><p>United Breweries, SABMiller ಮತ್ತು AB InBev ನ R&amp;D ಯಲ್ಲಿ ಕೆಲಸ ಮಾಡಿದ Master Brewer, ನಂತರ ಡೇಟಾ ಸೈಂಟಿಸ್ಟ್ ಆಗಿ AB InBev ನ ಜಾಗತಿಕ ವ್ಯವಹಾರ ಘಟಕಗಳಿಗಾಗಿ AI ಮತ್ತು GenAI ಕಟ್ಟಿದವರು.</p><div style="display:flex;flex-wrap:wrap;gap:.4rem 1.4rem"><a class="link-arrow" href="mentor-ankur-napa.html">ಪೂರ್ಣ ಪ್ರೊಫೈಲ್</a><a class="link-arrow" href="https://www.linkedin.com/in/ankur-napa/" rel="noopener" target="_blank">LinkedIn ನಲ್ಲಿ Ankur</a></div></div></article>
 <article class="card mentor-card reveal"><a aria-hidden="true" href="mentor-chatty-girija.html" tabindex="-1"><img alt="Chatty Girija" class="mentor-img" loading="lazy" src="../assets/team5.jpg"/></a><div class="card-body"><span class="cat">ಬಿಯರ್ podcaster · ಸೃಜನಾತ್ಮಕ ತಂತ್ರಜ್ಞೆ</span><h3><a href="mentor-chatty-girija.html">Chatty Girija</a></h3><p>ಜಾಹೀರಾತು ಕ್ಷೇತ್ರದಲ್ಲಿ 30+ ವರ್ಷಗಳು ಮತ್ತು ಕ್ರಾಫ್ಟ್ ಬಿಯರ್ ಬಗ್ಗೆ ಆಳವಾದ ಒಲವು. ಪ್ರತಿ ಸೆಷನ್ಗೂ ಬಿಯರ್ನ ಕಥೆಗಳು, ಬ್ರ್ಯಾಂಡಿಂಗ್ ಮತ್ತು ವ್ಯವಹಾರವನ್ನು ತರುತ್ತಾರೆ.</p><div style="display:flex;flex-wrap:wrap;gap:.4rem 1.4rem"><a class="link-arrow" href="mentor-chatty-girija.html">ಪೂರ್ಣ ಪ್ರೊಫೈಲ್</a></div></div></article>
 <article class="card mentor-card reveal"><a aria-hidden="true" href="mentor-anu-rao.html" tabindex="-1"><img alt="Anu Rao" class="mentor-img" loading="lazy" src="../assets/team4.jpg"/></a><div class="card-body"><span class="cat">ಮುಖ್ಯಸ್ಥರು, ಸ್ಟ್ರಾಟಜಿ &amp; ಆಪರೇಷನ್ಸ್</span><h3><a href="mentor-anu-rao.html">Anu Rao</a></h3><p>ಸಾಮಾಜಿಕ ಜವಾಬ್ದಾರಿ, ಶಿಕ್ಷಣ ಮತ್ತು ಕಾರ್ಯಾಚರಣೆಯಲ್ಲಿ 15+ ವರ್ಷಗಳು, ಪ್ರತಿ ಬ್ಯಾಚ್ ಅನ್ನು ಧಾನ್ಯದಿಂದ ಗ್ಲಾಸ್ವರೆಗೆ ಸುಗಮವಾಗಿ ನಡೆಸುತ್ತಾರೆ.</p><div style="display:flex;flex-wrap:wrap;gap:.4rem 1.4rem"><a class="link-arrow" href="mentor-anu-rao.html">ಪೂರ್ಣ ಪ್ರೊಫೈಲ್</a></div></div></article>
